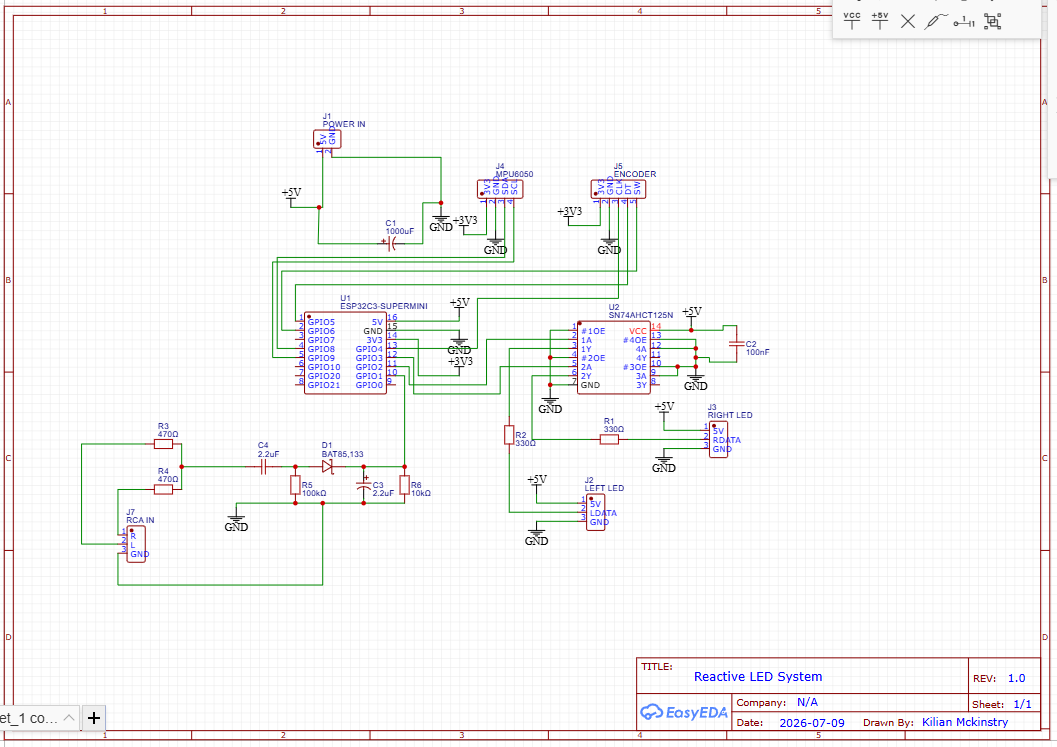
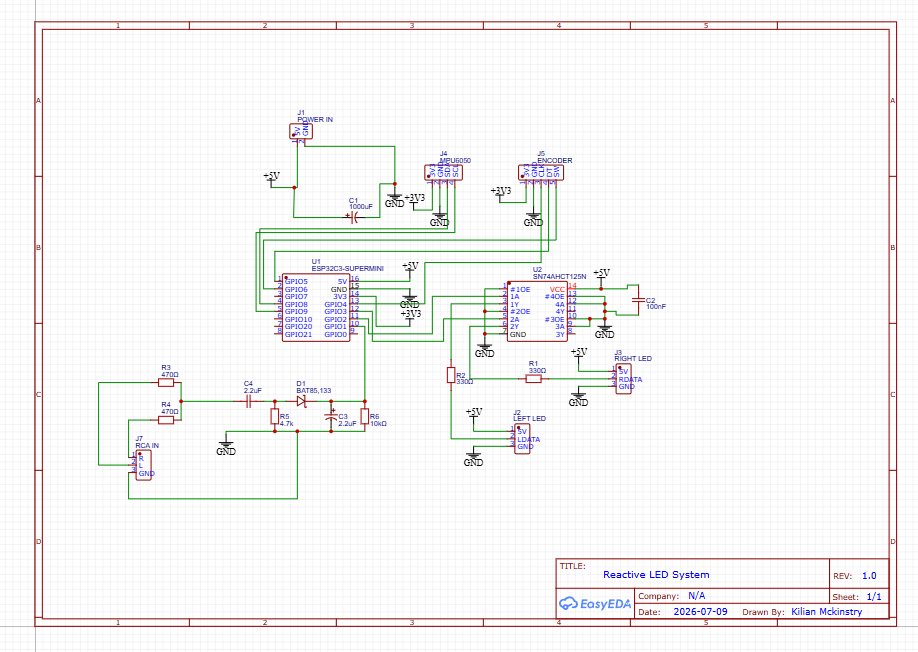
Update v2 schematic image with corrected R5 label, close out stale-label notes
The v2 schematic screenshot at images/pcb/v2/PCB_V2_schematic.png
hadn't actually changed after the first "fix" attempt (same file size
and mtime as before) - the EasyEDA project's R5 label wasn't actually
edited yet. Found the real re-export sitting in Downloads
(Screenshot 2026-09-29 003738.png, showing R5=4.7k correctly) and
copied it into place.

Updated every doc that previously flagged the schematic/EasyEDA label
as stale (docs/pcb-design.md, docs/audio-reactive-led-plan.md,
hardware/audio-breakout.md, hardware/README.md, CLAUDE.md) now that it
matches the physical 4.7kOhm value, and added a build-log entry
closing out that gap plus confirming C4/D1/J7 are in hand.

Changed region(s): [[0.0, 0.0, 1.0, 1.0], [0.244, 0.1534, 0.732, 0.7362]]

diff --git a/docs/audio-reactive-led-plan.md b/docs/audio-reactive-led-plan.md
@@ -147,7 +147,7 @@ Either diode still clears the 3.3V ADC ceiling with generous margin — that was
 
 **Component choice matters for C4 — a first attempt using two polarized electrolytics wired back-to-back failed and stayed failed, even after reseating.** That trick (tying two same-polarity electrolytics together to approximate a non-polarized cap) only works for a signal that's purely symmetric AC with no sustained DC offset — exactly the opposite of what C4 needs to handle here, since blocking a *sustained* DC bias means one of the two caps in that pair ends up under continuous reverse bias, not the brief, symmetric reverse-bias the trick is designed to tolerate. Sustained reverse bias degrades an electrolytic's leakage behaviour over time, which likely explains why the failure was reproducible — it wasn't a wiring fault, it was the wrong kind of capacitor for this specific job. **C4 must be a genuinely non-polarized capacitor** (ceramic or film, not two electrolytics) — no reverse-bias concern at all, regardless of which direction (or whether) a DC bias is present. Not yet re-tested on the bench with a proper non-polarized part — the `v2` PCB is the next point this gets validated, alongside the real radio.
 
-**Note on the `v2` PCB's schematic/BOM:** the EasyEDA design and its BOM export were finalized (and Gerbers submitted) with `R5 = 100kΩ`, before this correction was found. Since R5 is a through-hole part meant to be hand-soldered (already on the "cheap hand-swap, not a re-fab" list alongside R3/R4/C3/C4), this doesn't require a re-fab — solder a `4.7kΩ` resistor in that position instead of `100kΩ` when assembling. Worth updating the EasyEDA project's own labelling too, so the schematic matches what's actually built, but that's a bookkeeping fix, not a hardware blocker.
+**Note on the `v2` PCB's schematic/BOM:** the EasyEDA design and its BOM export were finalized (and Gerbers submitted) with `R5 = 100kΩ`, before this correction was found. Since R5 is a through-hole part meant to be hand-soldered (already on the "cheap hand-swap, not a re-fab" list alongside R3/R4/C3/C4), this doesn't require a re-fab — solder a `4.7kΩ` resistor in that position instead of `100kΩ` when assembling. The EasyEDA project's own labelling has since been updated to `4.7kΩ` too, so the schematic now matches what's actually built.
 
 **Ground note:** the conditioning circuit's ground must trace back to the RCA tap's own ground/shield connection — not a separate chassis ground point used elsewhere in the car (e.g. the 12V system's ground). Referencing two different chassis points that aren't at exactly the same potential is a classic source of audible ground-loop hum in the actual audio system, not just an LED-behaviour issue.
 
@@ -243,7 +243,7 @@ The EasyEDA schematic/layout is designed and verified; the board was ordered fro
 - [ ] **Confirm the radio/speaker system still works normally** — the RCA tap is a parallel bridge, never cut in series, but verify nothing about the original audio system broke before moving on
 - [ ] **Confirm the original accelerometer-reactive system still works** — motion-based brightness/colour, rotary encoder, both LED strips — exactly as it did on `v1`, before layering the new audio behaviour on top
 - [ ] **First real validation against the actual car radio happens here** — this is the earliest point real RCA access is practical. Confirm the ADC isn't clipping (a maxed-out, unresponsive-to-volume reading is the signature), that the idle baseline actually sits near-zero (confirming C4 is doing its job against whatever the real radio's DC characteristics turn out to be), and that C3's smoothing still feels right against real music.
-- [x] R5 corrected from `100kΩ` to `4.7kΩ` before assembly (found via Multisim simulation — see the C4/R5 maths note above) — solder `4.7kΩ` in that position, not the value shown on the `v2` schematic
+- [x] R5 corrected from `100kΩ` to `4.7kΩ` before assembly (found via Multisim simulation — see the C4/R5 maths note above) — solder `4.7kΩ` in that position; the EasyEDA schematic's own label has since been updated to match
 - [ ] If R3/R4/R5/C3/C4 need further correction once tested against the real radio, hand-swap those specific parts too — cheap, quick, doesn't require a re-fab, since the values from Stage A were only ever a laptop-derived starting point
 - [ ] Flash the `v4.x` firmware developed in Phase 3 and confirm it drives the real strips correctly with the new board installed
 - [ ] Test in the car with real music — expect some retuning against real strips, cabin acoustics, and road noise

diff --git a/CLAUDE.md b/CLAUDE.md
@@ -49,7 +49,7 @@ Design updated after the initial plan: D1 (rectifier diode) is a 1N4007, not the
 - **Production designators renumbered**, since `v1`'s real board already uses `R1`/`R2` (330Ω) and `C1`/`C2` (1000µF/100nF) for other things. Production continues straight on from those: **R3/R4** (470Ω isolation), **R5** (4.7kΩ coupling reference — see correction below; informally "R7" in testing-only text), **R6** (10kΩ discharge, unchanged), **C3** (2.2µF smoothing), **C4** (coupling cap, non-polarized, 2.2µF, ordered). Full mapping is in `docs/audio-reactive-led-plan.md` and `hardware/audio-breakout.md`.
 - **`J6_SWITCH` removed** — `v1`'s switch connector was never populated (just shorted instead), dropped for `v2`. New RCA input connector is **`J7`** (JST-XH 3-pin, matching the existing J2–J5 style).
 - **Parts ordered**: non-polarized coupling capacitor (C4), BAT85 diode (D1), JST-XH 3-pin connector set (J7). Everything else needed was already on hand.
-- **R5 corrected from 100kΩ to 4.7kΩ, found via Multisim simulation after Gerbers were already submitted.** The original 100kΩ spec only modelled C4/R5 as a simple AC high-pass filter (which it passes ~99.5% of signal, true in isolation) — missing a self-biasing effect where D1 pulling current from Node A on each peak forces Node A's *average* voltage down (since C4 blocks DC, that current has to balance against R5), eating into the peak voltage that ever reaches the diode. At 100kΩ, simulation confirmed only ~9% of the signal reaching Node A actually made it to Node B (~0.2V against the real 2.55V peak, not the ~2.2–2.4V originally assumed). 4.7kΩ was found by testing the R5/R6 self-bias trade-off against the R5/C4 bass-response trade-off together — Node B's voltage actually peaks around R5≈5–6kΩ and falls off below that, so lower isn't always better. Result: ~1.1–1.4V at Node B, a 5x+ improvement, using the same 2.2µF C4 already on hand — no new part needed. R5 is hand-soldered (same cheap-hand-swap list as R3/R4/C3/C4), so this doesn't require a re-fab — solder 4.7kΩ instead of the 100kΩ shown on the `v2` schematic. Full derivation in `docs/audio-reactive-led-plan.md`.
+- **R5 corrected from 100kΩ to 4.7kΩ, found via Multisim simulation after Gerbers were already submitted.** The original 100kΩ spec only modelled C4/R5 as a simple AC high-pass filter (which it passes ~99.5% of signal, true in isolation) — missing a self-biasing effect where D1 pulling current from Node A on each peak forces Node A's *average* voltage down (since C4 blocks DC, that current has to balance against R5), eating into the peak voltage that ever reaches the diode. At 100kΩ, simulation confirmed only ~9% of the signal reaching Node A actually made it to Node B (~0.2V against the real 2.55V peak, not the ~2.2–2.4V originally assumed). 4.7kΩ was found by testing the R5/R6 self-bias trade-off against the R5/C4 bass-response trade-off together — Node B's voltage actually peaks around R5≈5–6kΩ and falls off below that, so lower isn't always better. Result: ~1.1–1.4V at Node B, a 5x+ improvement, using the same 2.2µF C4 already on hand — no new part needed. R5 is hand-soldered (same cheap-hand-swap list as R3/R4/C3/C4), so this doesn't require a re-fab — solder 4.7kΩ. The EasyEDA schematic's own R5 label has since been corrected to match. Full derivation in `docs/audio-reactive-led-plan.md`.
 
 **`v2`'s EasyEDA schematic/layout is designed and verified, and the board has arrived from JLCPCB** (Global Standard Direct Line shipping). Not yet assembled — bare-board photos taken (front/rear), matching how `v1`'s pre-assembly board was documented. Cloned from the `v1` project rather than editing it in place. DRC clean (0 errors). EasyEDA Standard has no separate ERC report like KiCad/EasyEDA Pro — schematic connectivity was instead verified directly from the exported schematic JSON (tracing wires/pins/junctions), confirming the Node S/A/B topology and GND net match the documented circuit exactly. That check also caught `J7`'s Front Left/Front Right RCA pins initially wired backwards (R3=Right/R4=Left) — fixed in EasyEDA and re-verified as R3=Left/R4=Right, matching the docs. Design files (Gerbers, EasyEDA BOM export, schematic + PCB JSON) are committed under `hardware/pcb/v2/{gerbers,bom,easyeda}/`; `v1`'s `easyeda/` folder was also retroactively completed with its own schematic JSON, which had been missing. The system BOM (`hardware/bom/MR2_Reactive_LEDs_System_BOM.xlsx`) now has a separate `Audio Addition` tab listing the new parts.
 

diff --git a/hardware/audio-breakout.md b/hardware/audio-breakout.md
@@ -129,7 +129,7 @@ H(20Hz) = 4,700 / √(5,170² + 3,617²) ≈ 0.74
 
 ~74% passes at the worst-case bass frequency (up to ~91% at typical midrange/treble, where C4's impedance becomes negligible). Combined with the self-bias factor (`1/(1+4700/10000) ≈ 68%`), Node B lands around **~1.1–1.15V at worst case, up to ~1.4V for typical content** against the confirmed 2.55V peak — a 5x+ improvement over the original spec, validated in Multisim before committing to the change. See `docs/audio-reactive-led-plan.md` for the full derivation and the R5-value trade-off table.
 
-**Note on the `v2` PCB:** the EasyEDA schematic/BOM was finalized with `R5 = 100kΩ` before this was found. R5 is hand-soldered (already on the cheap-hand-swap list with R3/R4/C3/C4) — solder `4.7kΩ` instead when assembling, no re-fab needed.
+**Note on the `v2` PCB:** the EasyEDA schematic/BOM was finalized with `R5 = 100kΩ` before this was found. R5 is hand-soldered (already on the cheap-hand-swap list with R3/R4/C3/C4) — solder `4.7kΩ` instead when assembling, no re-fab needed. The EasyEDA schematic's own `R5` label has since been corrected to `4.7kΩ` to match.
 
 **Component choice matters for C4 — a first attempt using two polarized electrolytics wired back-to-back failed and stayed failed, even after reseating.** That trick only works for signals that are purely symmetric AC with no sustained DC offset — the opposite of what's needed here, since blocking a *sustained* bias puts one of the two caps under continuous reverse bias rather than the brief, symmetric reverse-bias the trick tolerates. Sustained reverse bias degrades an electrolytic's leakage behaviour over time, which likely explains the reproducible failure — a wrong component choice, not a wiring fault. **C4 must be genuinely non-polarized** (ceramic or film) — no reverse-bias concern at all. Not yet re-tested on the bench with a proper non-polarized part; the `v2` PCB is the next validation point, alongside the real radio.
 
@@ -171,6 +171,6 @@ Bridge off both signal wires and the ground in parallel at the radio's RCA harne
 - [x] Design the `v2` schematic/layout in EasyEDA — DRC clean (0 errors), schematic connectivity manually verified against the exported netlist (Node S/A/B topology and GND all match this document); `J7`'s Front Left/Front Right wiring confirmed matching R3=Left/R4=Right
 - [x] Export and commit the design files (`gerbers/`, `bom/`, `easyeda/`) under `hardware/pcb/v2/` — see [hardware/README.md](README.md)
 - [x] Submit Gerbers to JLCPCB — ordered, Global Standard Direct Line shipping
-- [x] R5 corrected from `100kΩ` to `4.7kΩ` before assembly (found via Multisim simulation after Gerbers were already submitted — see the C4/R5 maths note above and [docs/multisim-simulation.md](../docs/multisim-simulation.md) for the full simulation writeup) — solder `4.7kΩ`, not the value shown on the `v2` schematic
+- [x] R5 corrected from `100kΩ` to `4.7kΩ` before assembly (found via Multisim simulation after Gerbers were already submitted — see the C4/R5 maths note above and [docs/multisim-simulation.md](../docs/multisim-simulation.md) for the full simulation writeup) — solder `4.7kΩ`; the EasyEDA schematic's own label has since been updated to match
 - [x] Board arrived from JLCPCB — visually inspected, bare-board front/rear photos taken (same approach as `v1`)
 - [ ] Assemble and bench-test the new board (visual inspection done — continuity, soldering, power-on next — no real radio involved yet, see the build plan's Phase 3)

diff --git a/hardware/README.md b/hardware/README.md
@@ -41,7 +41,7 @@ The custom PCB was designed in EasyEDA to replace the breadboard prototype and p
 
 The PCB was designed as a two-layer FR4 board and verified against the breadboard prototype before manufacture. Full history — including the GPIO4 fault on the first assembled `v1` board and its replacement — is in [docs/pcb-design.md](../docs/pcb-design.md) and [docs/build-log.md](../docs/build-log.md).
 
-**`v2` (in progress, arrived from JLCPCB) adds the audio-reactive circuit** — R3, R4, R5, R6, C3, C4, D1 (BAT85), and a new `J7` RCA input connector — directly onto the same board, replacing the standalone-breakout-board approach originally planned, and dropping the never-populated `J6_SWITCH`. Reference designators continue on from `v1`'s existing `R1`/`R2`/`C1`/`C2` (already used for other components) rather than reusing them — see [docs/audio-reactive-led-plan.md](../docs/audio-reactive-led-plan.md), Phase 3, for the full checklist. Design complete: cloned from `v1`, DRC clean, schematic connectivity verified, `J7` wired with Front Left → R3 / Front Right → R4 matching the documented convention. `R5` corrected from `100kΩ` to `4.7kΩ` after Gerbers were submitted (Multisim finding — see [docs/multisim-simulation.md](../docs/multisim-simulation.md)); hand-solder `4.7kΩ`, not the `100kΩ` shown on the schematic.
+**`v2` (in progress, arrived from JLCPCB) adds the audio-reactive circuit** — R3, R4, R5, R6, C3, C4, D1 (BAT85), and a new `J7` RCA input connector — directly onto the same board, replacing the standalone-breakout-board approach originally planned, and dropping the never-populated `J6_SWITCH`. Reference designators continue on from `v1`'s existing `R1`/`R2`/`C1`/`C2` (already used for other components) rather than reusing them — see [docs/audio-reactive-led-plan.md](../docs/audio-reactive-led-plan.md), Phase 3, for the full checklist. Design complete: cloned from `v1`, DRC clean, schematic connectivity verified, `J7` wired with Front Left → R3 / Front Right → R4 matching the documented convention. `R5` corrected from `100kΩ` to `4.7kΩ` after Gerbers were submitted (Multisim finding — see [docs/multisim-simulation.md](../docs/multisim-simulation.md)); hand-solder `4.7kΩ` — the EasyEDA schematic's own label has since been updated to match.
 
 ---
 

diff --git a/docs/build-log.md b/docs/build-log.md
@@ -763,6 +763,8 @@ Since `R5` is a through-hole part meant to be hand-soldered (already on the same
 
 **Board received from JLCPCB.** Visually inspected — bare-board front and rear photos taken, the same documentation approach used for `v1`'s pre-assembly board (see [docs/pcb-design.md](pcb-design.md)). Not yet assembled; continuity testing, soldering, and power-on testing are next, per the Phase 3 checklist.
 
+**EasyEDA schematic label corrected.** The project's own `R5` label — still showing `100kΩ` after the Multisim-driven correction above — has been updated to `4.7kΩ` to match the physical value being assembled, closing the bookkeeping gap noted at the time of that fix. The re-exported schematic image is up to date in [docs/pcb-design.md](pcb-design.md). Confirmed all remaining parts (`C4`, `D1`, `J7`) are physically in hand alongside the board, so nothing is blocking assembly.
+
 ## Phase 4 — Install and Test
 
 **Status:** Not started. Depends on Phase 3. The `v4.0` firmware is drafted and compiles clean, but has not been bench-tested against real audio — Phase 3's remaining bench-testing step and Phase 4's install now effectively happen together, since the conditioning circuit parts are only available once the board is assembled. Installing the new PCB revision (replacing the currently-installed `v1` board) also happens in this phase, and is where real-radio validation happens (moved from an earlier Phase 3 plan, to avoid tapping the car's RCA wiring twice). Testing order: confirm the radio/speaker system still works after the RCA tap, then confirm the original accelerometer-reactive system still works, then validate the new audio circuit against real radio (retuning `audioFloor`/`audioCeiling` as needed), then test the `v4.0` firmware driving the real strips — see the build plan's Phase 4.

diff --git a/docs/pcb-design.md b/docs/pcb-design.md
@@ -307,7 +307,7 @@ The buck converter is installed inside the control box but will be tested using 
 
 ![PCB V2 Schematic](../images/pcb/v2/PCB_V2_schematic.png)
 
-**Note: this schematic still shows `R5` as `100kΩ`.** The EasyEDA project's own label was never updated after the correction was found (see [docs/multisim-simulation.md](multisim-simulation.md)) — this is a bookkeeping gap, not a hardware issue. The board is hand-assembled with a `4.7kΩ` resistor in that position, not the `100kΩ` shown here.
+`R5` is shown here as `4.7kΩ` — the EasyEDA project's label was updated to match the corrected value found via Multisim simulation (see [docs/multisim-simulation.md](multisim-simulation.md)), so this schematic and the physical board now agree.
 
 ---
 
@@ -345,4 +345,4 @@ Photos of the manufactured `v2` board, before component assembly — same docume
 
 ## Next Steps
 
-Assembly (continuity testing, soldering, power-on testing) hasn't started yet — see the Phase 3 checklist in [docs/audio-reactive-led-plan.md](audio-reactive-led-plan.md) and [hardware/audio-breakout.md](../hardware/audio-breakout.md) for what's left. `R5` must be hand-soldered as `4.7kΩ`, not the `100kΩ` shown on the schematic above.
+Assembly (continuity testing, soldering, power-on testing) hasn't started yet — see the Phase 3 checklist in [docs/audio-reactive-led-plan.md](audio-reactive-led-plan.md) and [hardware/audio-breakout.md](../hardware/audio-breakout.md) for what's left. `R5` is `4.7kΩ`, matching both the schematic above and the physical board.
